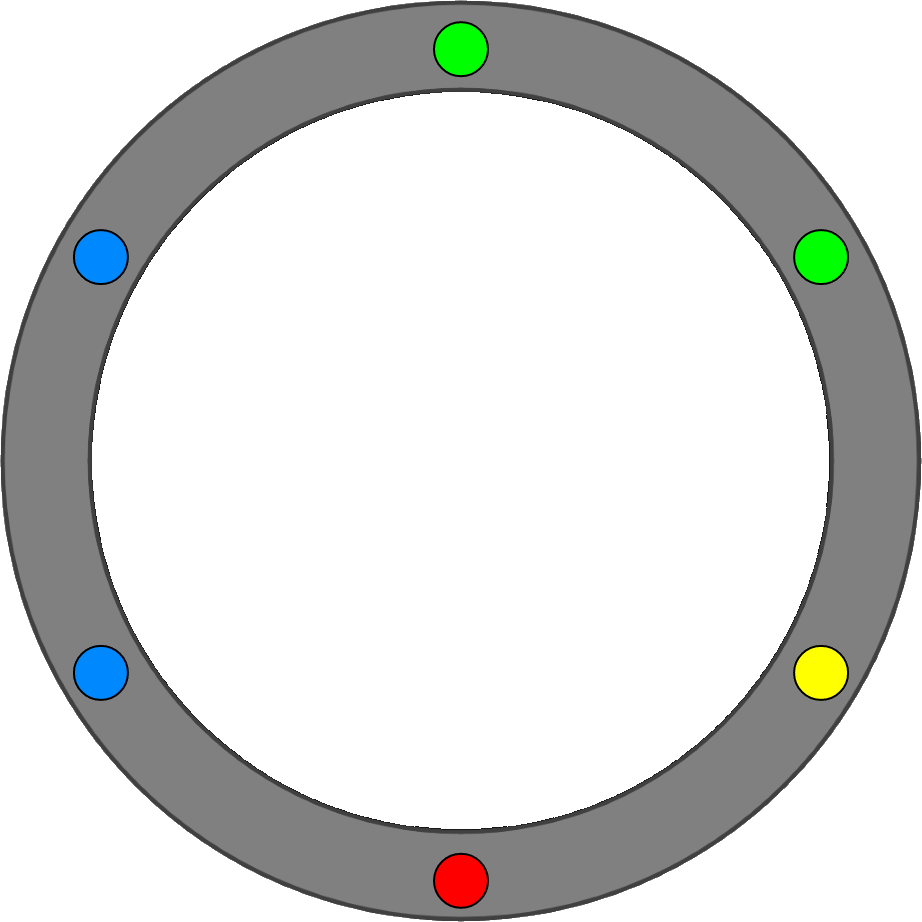
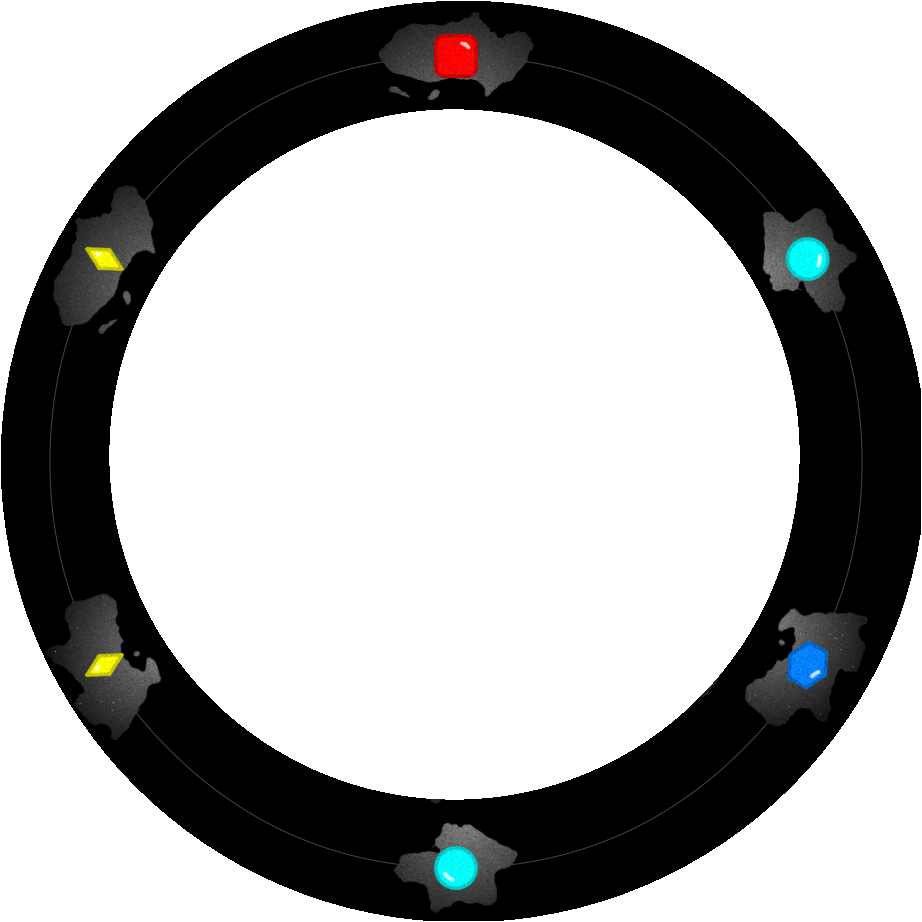
Updated the title screen

diff --git a/js/titleScreen.js b/js/titleScreen.js
@@ -10,7 +10,8 @@ game.titleScreen = {
     imageData: [
         game.math.Vector(1, 0), Math.cos(Math.PI / 1440), Math.sin(Math.PI / 1440),
         game.math.Vector(1, 0), Math.cos(Math.PI / 600), Math.sin(-Math.PI / 600),
-        game.math.Vector(1, 0), Math.cos(Math.PI / 480), Math.sin(Math.PI / 480)
+        game.math.Vector(1, 0), Math.cos(Math.PI / 480), Math.sin(Math.PI / 480),
+        game.math.Vector(1, 0), 1, 0
     ],
     content: [
         game.Button('Play', 0.03, 0.53, 0.3, 0.08, function() {
@@ -50,7 +51,7 @@ game.titleScreen = {
         ctx.fillText(text, ctx.canvas.width * 0.03, 0.1 * ctx.canvas.height);
         
         // Draw the rotating wheel
-        for (var i = 0; i < 3; i++) {
+        for (var i = 0; i < 4; i++) {
             ctx.translate(game.canvas.width, game.canvas.height);
             var dx = this.imageData[i * 3].x;
             var dy = this.imageData[i * 3].y;

diff --git a/js/main.js b/js/main.js
@@ -71,14 +71,13 @@ game.setup = function() {
     });
     
     // Start loading images
-    this.images.load('titleImage1');
-    this.images.load('titleImage2');
-    this.images.load('titleImage3');
     this.images.load('switch');
     this.images.load('wheel');
     this.images.load('center');
-    
     var i;
+    for (i = 1; i <= 4; i++) {
+        this.images.load('titleImage' + i);
+    }
     for (i = 0; i < this.value.ROCK_COUNT; i++) {
         this.images.load('rock' + i);
     }    

diff --git a/js/switch.js b/js/switch.js
@@ -32,7 +32,7 @@ game.switchMethods = {
 
     // Draws the switch to the canvas
     draw: function(ctx) {
-    
+        return;
         var r = 30 * this.scale;
         var x = this.x * this.scale + ctx.canvas.width / 2;
         var y = this.y * this.scale + ctx.canvas.height / 2;
